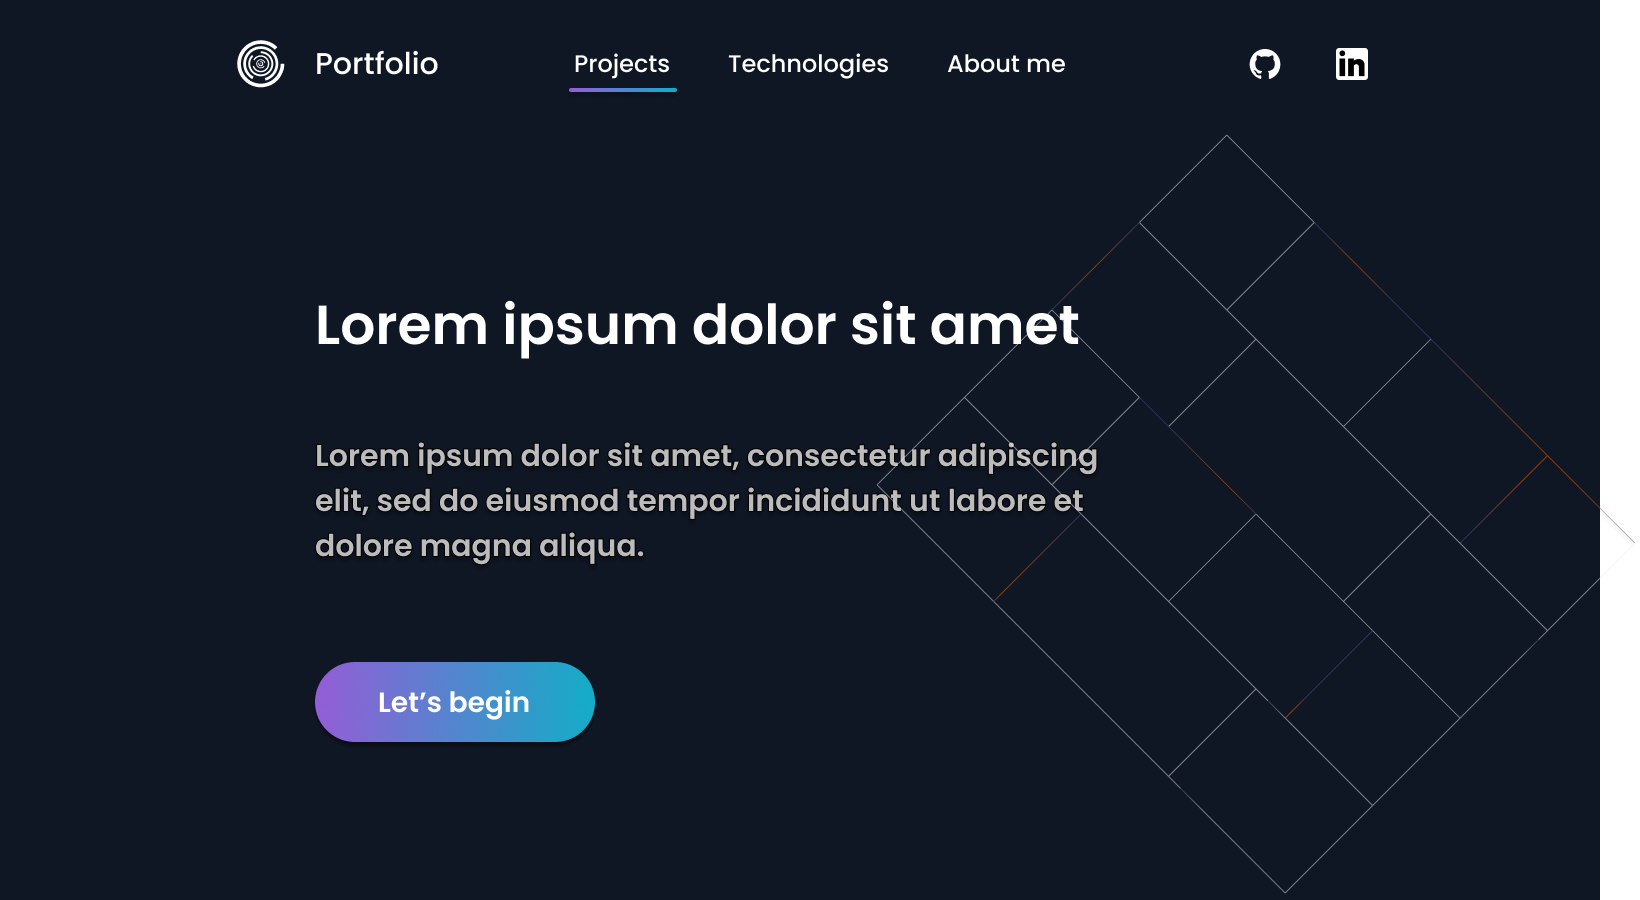
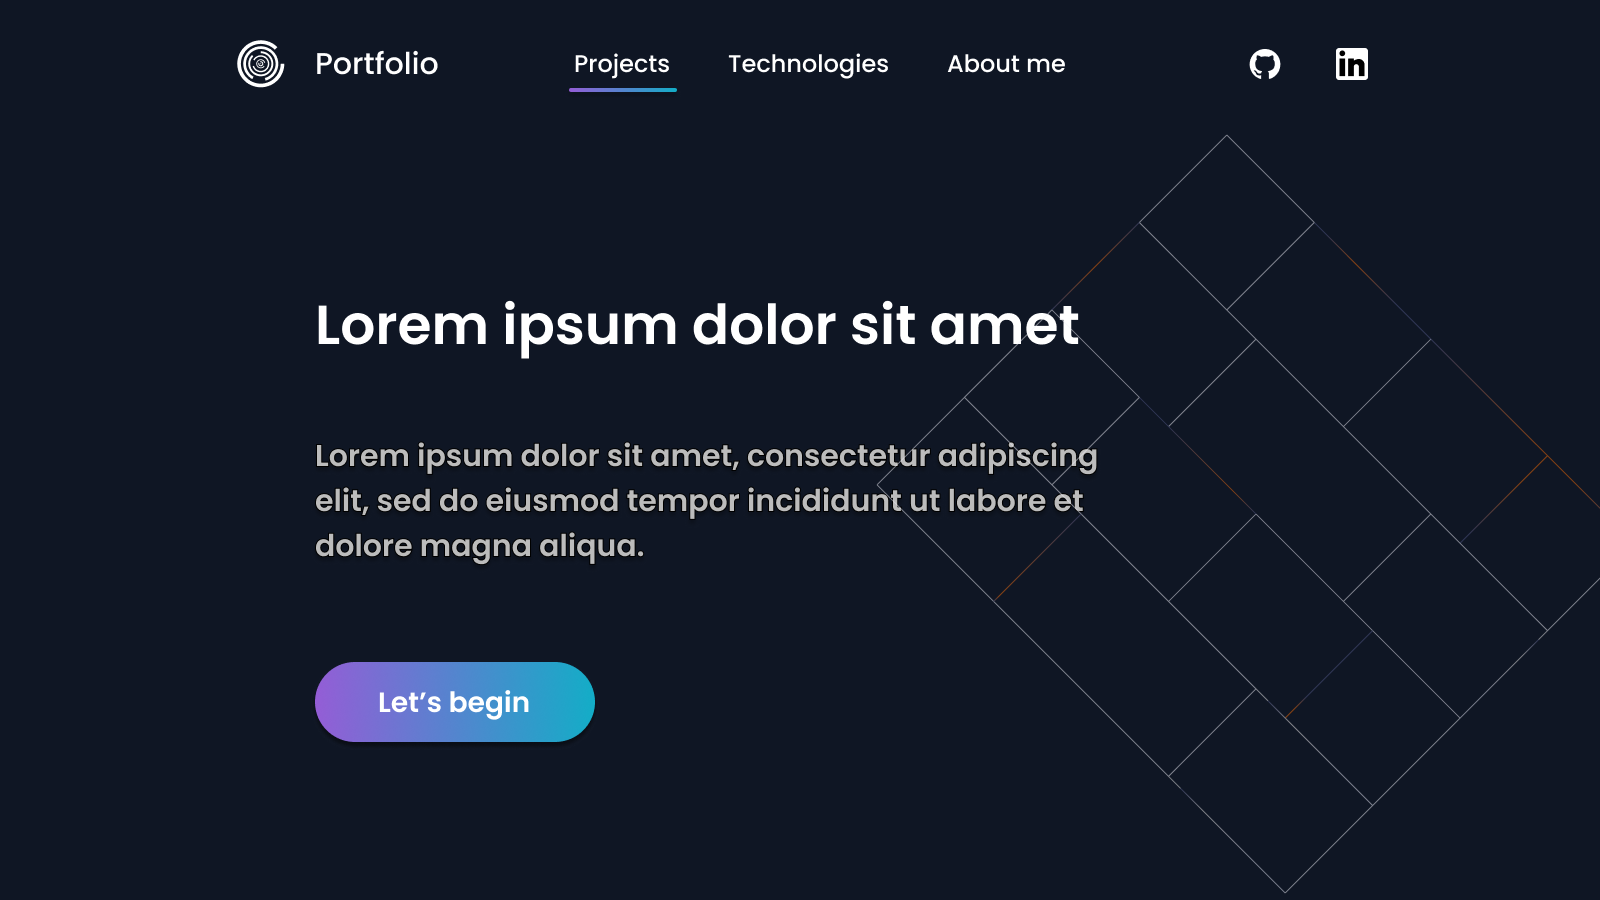
Pixel perfect

diff --git a/style.scss b/style.scss
@@ -89,11 +89,15 @@ ul {
 }   
 .social img {
     padding-left: 40px;
-}                          
+}    
+main {
+    width: 202px;
+    height: 47.58px;
+}                      
 .hero-content {
     width: 809px;
     height: 459px;
-    top: 283px;
+    top: 200px;
     margin-left: 80px;
 }   
 h1 {
@@ -105,90 +109,22 @@ p {
     color: rgba(188, 188, 188, 1);
     font-weight: 600;
     font-size: 30px;
-    line-height: 45px;
     margin-top: 67px;
-    margin-bottom: 67px;
+    margin-bottom: 100px;
 }            
 button {
-    width: 280px;
+    width: 285px;
     height: 80px;
-    left: 115px;
-    top: 662px;
+    left: 50px;
+    top: 450px;
     border-radius: 83px;
     font-weight: 600;
     font-size: 28px;
-    line-height: 42px;
     color: rgb(255, 255, 255);
     background: linear-gradient(270deg, #13ADC7 0%, #6978D1 66.67%, #945DD6 100%);
 }          
                 
                 
-
-                
-        
-
-
-// header {
-//     display: flex;
-//     height: 137px;
-//     top: 0;
-//     left: 0;
-// }
-// a{
-//     display: flex;
-// }
-// .logo {
-//     width: 47.58px;
-//     height: 47.58px;
-//     top: 40px;
-//     left: 37px;
-// }
-// h2 {
-//     font-weight: 500;
-//     line-height: 45px;
-// }
-// li {
-//     list-style: none;
-
-// }
-// a {
-//     text-decoration: none;
-//     color: rgb(255, 255, 255);
-// }
-// .container {
-//     width: 1200px;
-//     height: 100vh;
-//     margin: 0 auto;
-// }
-// .social-icons {
-//     float: right;
-// }
-// ul {
-//     display: flex;
-// }
-// button {
-//     background: linear-gradient(270deg, #13ADC7 0%, #6978D1 66.67%, #945DD6 100%);
-//     box-shadow: 0px 4px 4px rgba(0, 0, 0, 0.25);
-//     border-radius: 83px;
-//     width: 280px;
-//     height: 80px;
-//     }
-
-
-    // .hero-img {
-    //     position: absolute;
-    //     width: 758px;
-    //     height: 758px;
-    //     left: 877px;
-    //     top: 135px;
-    //     opacity: 0.5;
-    // }
-
-
-
-
-
-
 
 //  SCSS PRIVALUMAI
 

diff --git a/style.css b/style.css
@@ -103,10 +103,15 @@ ul {
   padding-left: 40px;
 }
 
+main {
+  width: 202px;
+  height: 47.58px;
+}
+
 .hero-content {
   width: 809px;
   height: 459px;
-  top: 283px;
+  top: 200px;
   margin-left: 80px;
 }
 
@@ -120,20 +125,18 @@ p {
   color: rgb(188, 188, 188);
   font-weight: 600;
   font-size: 30px;
-  line-height: 45px;
   margin-top: 67px;
-  margin-bottom: 67px;
+  margin-bottom: 100px;
 }
 
 button {
-  width: 280px;
+  width: 285px;
   height: 80px;
-  left: 115px;
-  top: 662px;
+  left: 50px;
+  top: 450px;
   border-radius: 83px;
   font-weight: 600;
   font-size: 28px;
-  line-height: 42px;
   color: rgb(255, 255, 255);
   background: linear-gradient(270deg, #13ADC7 0%, #6978D1 66.67%, #945DD6 100%);
 }/*# sourceMappingURL=style.css.map */
